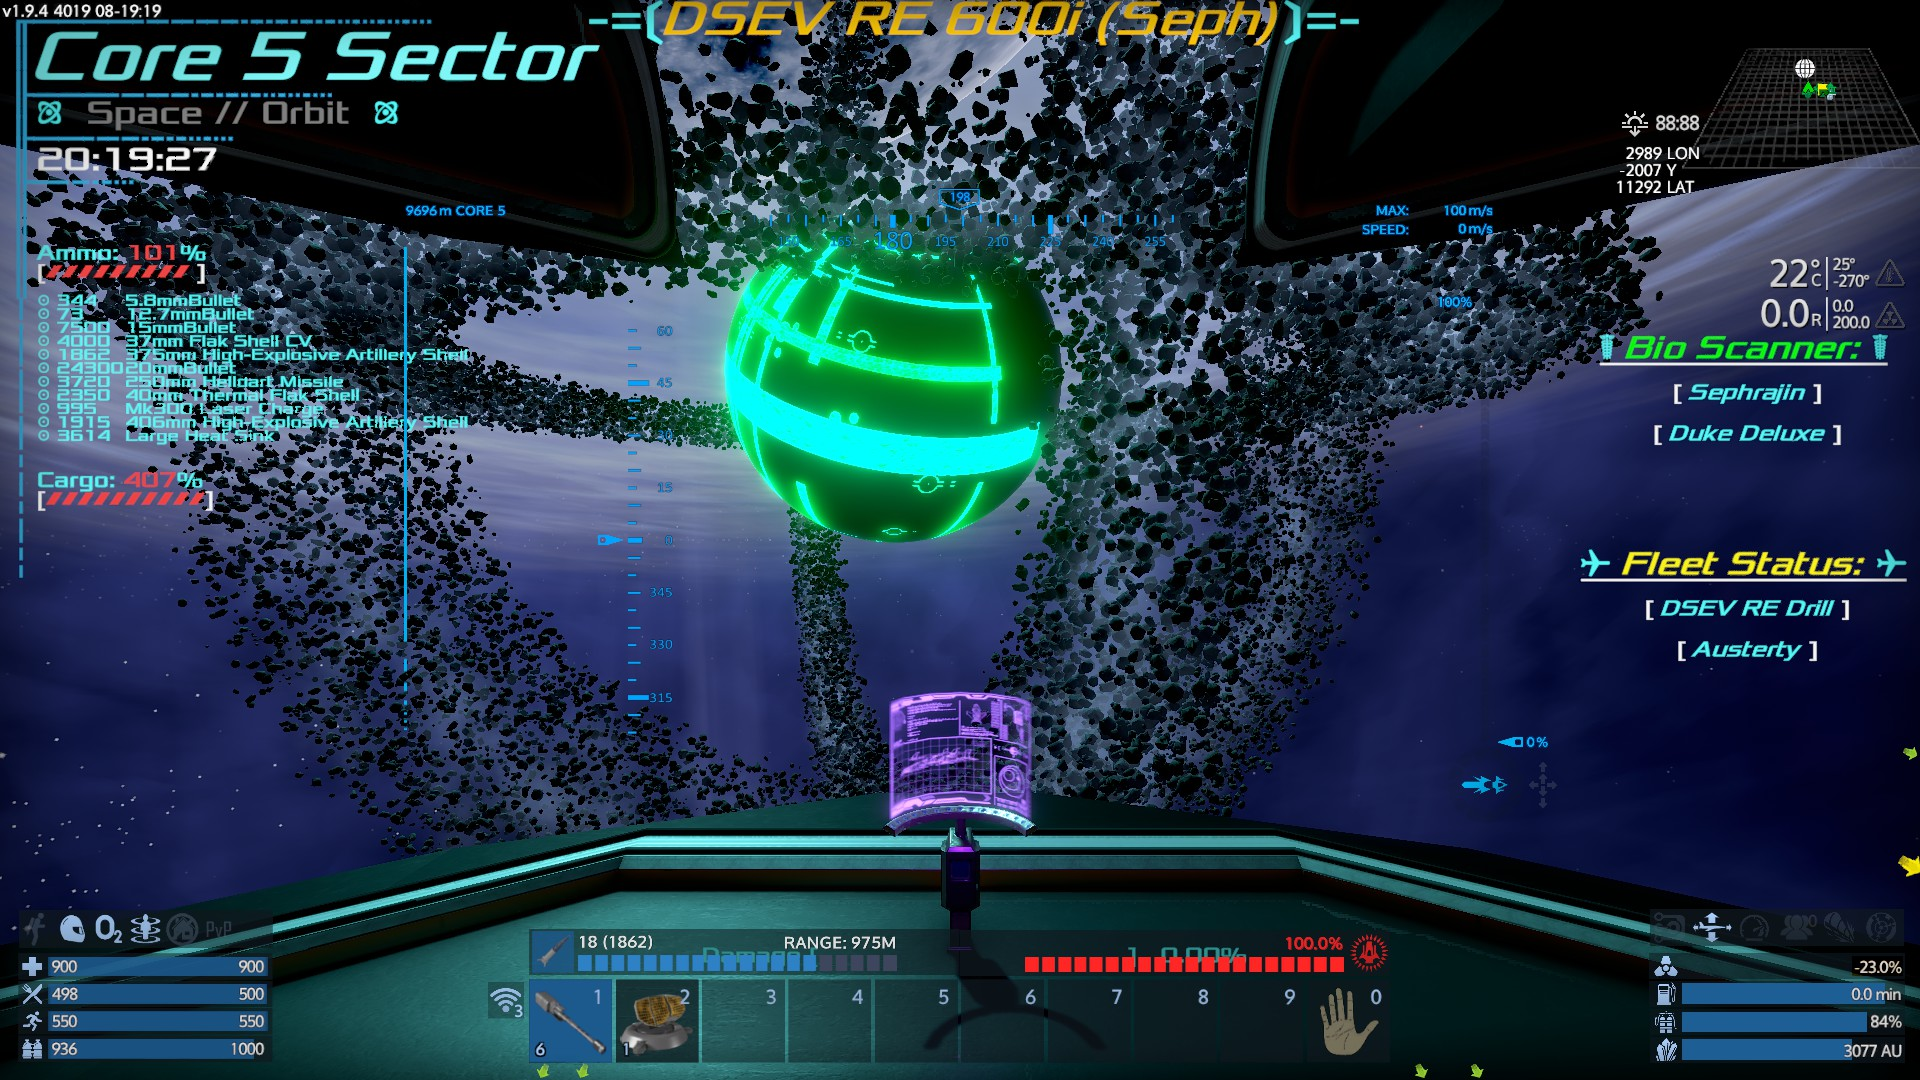
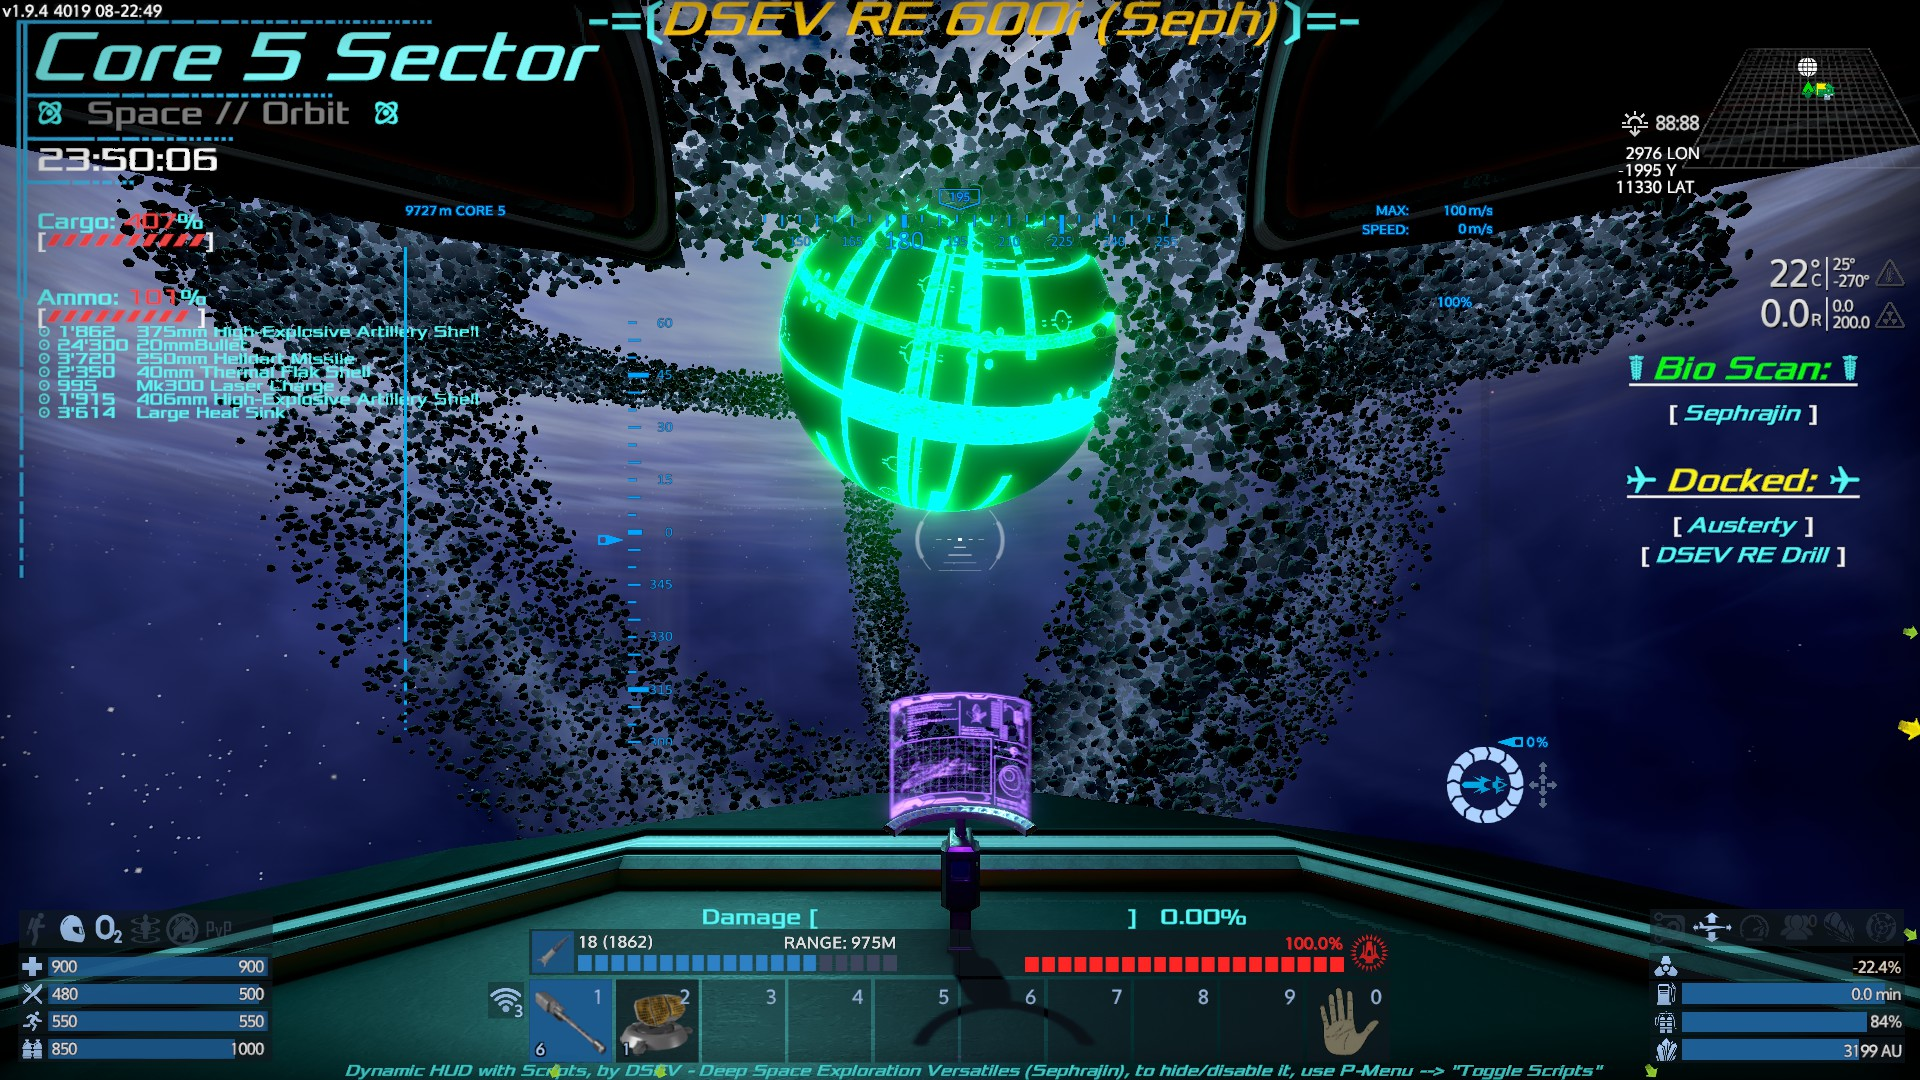
Updated HUD script
* Made ammo scroll
* Added cycle to all 'modules' (HUD_)

diff --git a/z_Build_Backups/1.9-REA-noMV/600i/HUD/ReadMe.md b/z_Build_Backups/1.9-REA-noMV/600i/HUD/ReadMe.md
@@ -1,0 +1,26 @@
+DSEV HUD
+========
+
+Deep Space Exploration Versatiles is proud to present you their HUD!
+
+While it can work as a standalone script, it does come with a "module support".
+
+Currently provided modules are:
+* Ammo Containers (Bar, Content list)
+* Cargo Containers (Bar)
+* Harvest Containers (Bar)
+
+By the simple use of wording the LCDs in a certain way, you can list them on the left side of the HUD!
+
+Just name them: 
+
+	Script:HUD_\*
+
+For obvious reasons, it'll include them in numerical and alphabetical order, so everything after the lower dash starting with a "1" will be shown before a "z".
+
+As the scripts are now, be aware to add the following:
+* Script:[+11]HUD_2_Ammo
+* Script:[+3]HUD_1_Cargo
+* Script:[+3]HUD_1_Harvest
+
+![](DSEV_HUD.jpg)
